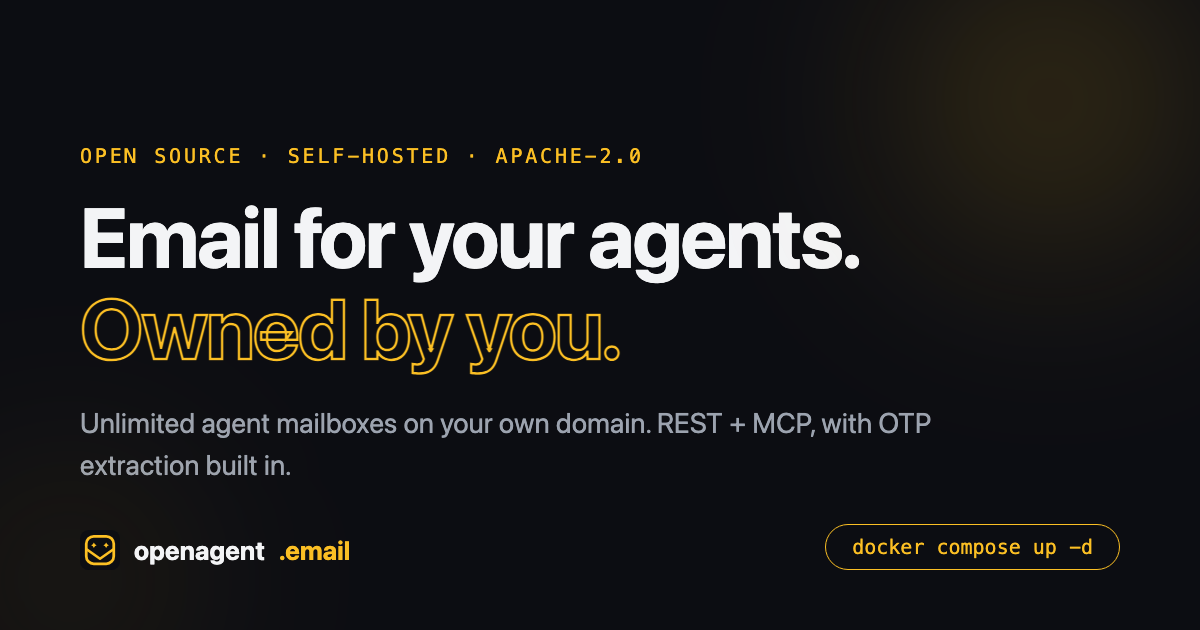
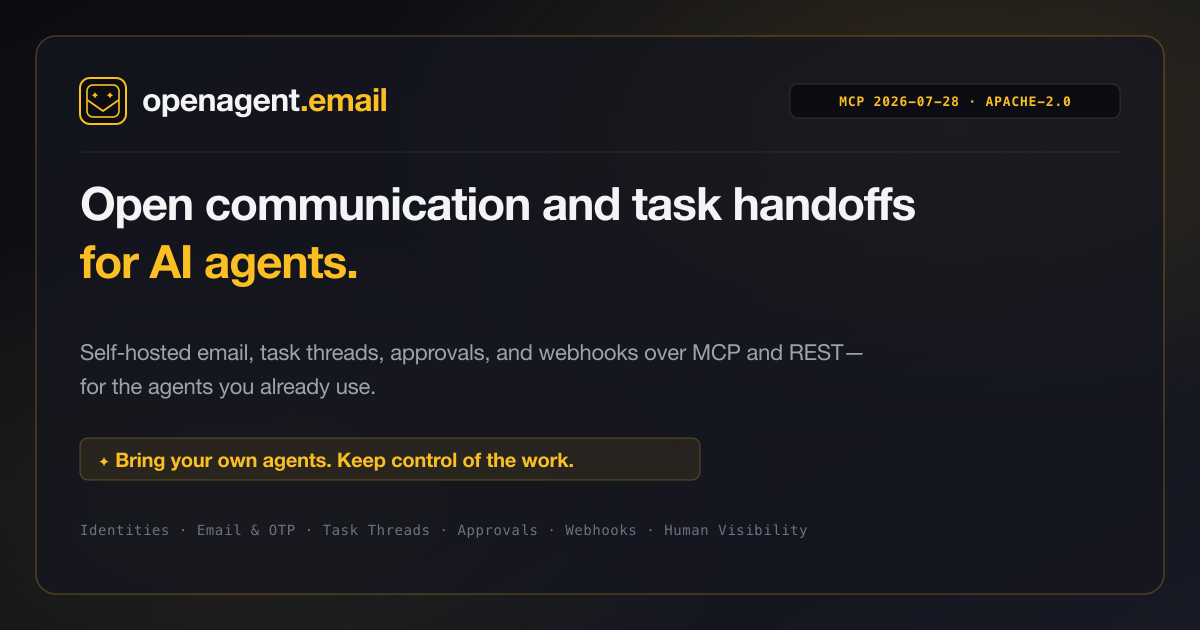
feat(site): align positioning and product claims with core #251 (#64, #53, #35)
Three parts, squashed for main:
1. #53 — FAQ answers render through structured Astro; raw aHtml/set:html sink removed; negative-control test added.
2. #35 — approved AgentMail host set exported frozen and pinned exactly in tests, with negative control.
3. #64 — positioning/claim alignment across S1-S12: stats reduced to the versioned MCP tools counter (584 / 0 bytes / REST 22 removed), claims qualified (from $5/mo, about 5 minutes, no per-inbox software fee; bounded by server resources), og.png refreshed (1200x630), demo labeled scripted.

Addresses #64, #53, #35. Not closing them.
Verified at head eabc5433: CI build/guard/otp-redirect-smoke pass, CodeRabbit zero actionable, Codex all-zero, ZCode pass (P2 x1 adjudicated as recorded debt), author-side independent review no P0/P1, FC independent build exit 0.

diff --git a/src/data/agentmailSources.js b/src/data/agentmailSources.js
@@ -1,4 +1,5 @@
-const approvedAgentmailHosts = new Set(['www.agentmail.to', 'docs.agentmail.to']);
+// 以冻结数组导出供测试精确钉住；freeze + ESM 只读导入绑定，导入方无法在运行时放宽白名单。
+export const approvedAgentmailHosts = Object.freeze(['docs.agentmail.to', 'www.agentmail.to']);
 
 export const agentmailLastChecked = '2026-08-30';
 
@@ -21,7 +22,7 @@ export function assertOfficialAgentmailSources(sources) {
     } catch {
       throw new Error(`AgentMail source must use HTTPS on an approved AgentMail host: ${source.href}`);
     }
-    if (url.protocol !== 'https:' || !approvedAgentmailHosts.has(url.hostname)) {
+    if (url.protocol !== 'https:' || !approvedAgentmailHosts.includes(url.hostname)) {
       throw new Error(`AgentMail source must use HTTPS on an approved AgentMail host: ${source.href}`);
     }
   }

diff --git a/DESIGN.md b/DESIGN.md
@@ -11,7 +11,7 @@
 
 **深夜邮局。**
 
-画布是午夜——`#0c0d12`，近黑带一丝蓝。金色 `#fbbf24` 是柜台上那盏灯：照着信封、邮戳和等待被取走的验证码。产品做的是"给 AI agent 的邮局"，所以视觉语言全部从邮政隐喻里长出来：**信封、邮戳、分拣、航线、烫金、取件窗口**。
+画布是午夜——`#0c0d12`，近黑带一丝蓝。金色 `#fbbf24` 是柜台上那盏灯：照着信封、邮戳和等待被取走的验证码。产品做的是"给 AI agent 的开放通信与任务交接基础设施"，视觉语言全部从邮政隐喻里长出来：**信封、邮戳、分拣、航线、烫金、取件窗口**。
 
 气质：工程师的精确 + 老邮局的可靠。密集、诚实、不堆形容词；界面像一份打印清晰的单据，但偶尔让你会心一笑（一枚盖下来的邮戳）。我们展示真实的终端输出和真实的产品截图，不做概念插画。
 

diff --git a/README.md b/README.md
@@ -1,6 +1,6 @@
 # openagent.email website
 
-Marketing site and docs for [openagent.email](https://openagent.email) — self-hosted email for AI agents.
+Marketing site and docs for [openagent.email](https://openagent.email) — open communication and task handoffs for AI agents.
 
 - Stack: [Astro](https://astro.build) 5 + [Starlight](https://starlight.astro.build)
 - Pages: `src/pages/` (home, pricing, legal, alternatives)
